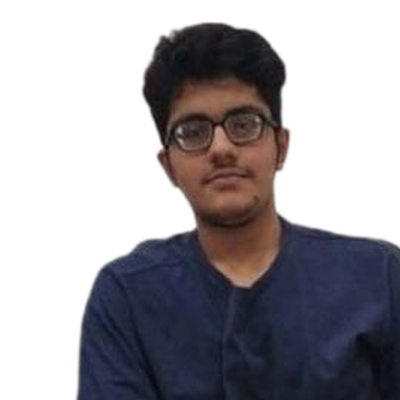
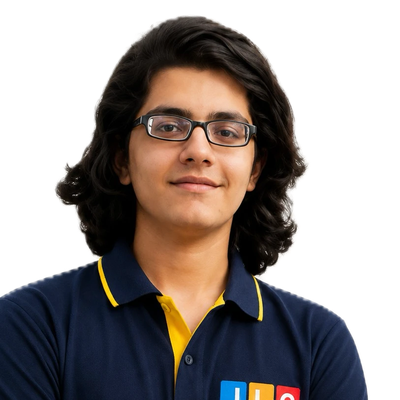
Add IGCSE topper, refresh IB toppers, reorder carousel with About Us first
Adds Harsh Nagda (Seven Isles International School) as a new IGCSE
Achievers section on the results page: five A* grades in Physics 96%,
Geography 94%, Mathematics Extended 94%, Hindi 92% and English 91%.

Replaces the IBDP portraits with the new JLC studio photographs for
Naman Thakkar and Ansh Sachde, and corrects their level from HL to SL
per the new IBDP Stars sheet, which also spells the surname Thakkar
rather than Thakker. The superseded MYP 5 line is dropped so each card
states the school the grade was earned at.

Reorders the home carousel so the About Us slide leads, followed by the
ICSE, IBDP and IGCSE topper slides and then Subjects Offered. Each
topper slide now shows real cut-out portraits: the top three ICSE
scorers, both IBDP achievers and the IGCSE achiever, in place of the
previous flat banner images.

Swaps the Subjects Offered slide to the new IB MYP and IBDP infographic
and brings courses.html in line with it by adding the missing Chemistry
and Biology IBDP cards.

Claude-Session: https://claude.ai/code/session_01SMsAUoWfowQbfSo6xeCuTu

diff --git a/index.html b/index.html
@@ -50,71 +50,7 @@
     <section class="hero-carousel" data-carousel aria-label="Highlights" aria-roledescription="carousel">
       <div class="hero-carousel__track" data-carousel-track>
 
-        <!-- Slide 1: ICSE Results -->
-        <article class="hcslide" style="--accent:var(--blue)" aria-roledescription="slide" aria-label="ICSE Results">
-          <div class="wrap hcslide__inner">
-            <div class="hcslide__text">
-              <span class="hcslide__eyebrow">ICSE Results</span>
-              <h2>Top ICSE Achievers<sup>*</sup></h2>
-              <p>School toppers scoring 95%+ across Maths, Sciences and Humanities, year after year.</p>
-              <div class="cta-row hcslide__cta">
-                <a class="btn btn--light" href="results.html#icse-results">See ICSE Results
-                  <svg viewBox="0 0 24 24" fill="none" stroke="currentColor" stroke-width="2" stroke-linecap="round" stroke-linejoin="round"><path d="M5 12h14M13 6l6 6-6 6"/></svg></a>
-              </div>
-              <p style="font-size:0.76rem;font-style:italic;color:rgba(255,255,255,0.62);margin-top:0.9rem;max-width:46ch;">*Includes results achieved under Prof. Jayesh's previous academic association as a partner.</p>
-            </div>
-            <div class="hcslide__media">
-              <div style="background:#fff;border-radius:var(--r);box-shadow:var(--shadow);height:100%;display:flex;gap:1.2rem;align-items:center;justify-content:center;padding:1.4rem;">
-                <div style="text-align:center;flex:1 1 0;">
-                  <img src="assets/img/topper-khushi-shah.jpg" alt="Khushi Shah portrait" style="width:100%;max-width:150px;aspect-ratio:1/1;object-fit:cover;border-radius:12px;margin-inline:auto;display:block;" />
-                  <div style="font-size:clamp(1.2rem,2.4vw,1.6rem);font-weight:800;color:var(--green);margin-top:0.6rem;">95.6%</div>
-                  <div style="font-weight:700;font-size:0.92rem;color:var(--ink);">Khushi Shah</div>
-                  <div style="font-size:0.76rem;color:var(--ink-faint);">SSRVM</div>
-                </div>
-                <div style="text-align:center;flex:1 1 0;">
-                  <img src="assets/img/topper-riya-gala.jpg" alt="Riya Gala portrait" style="width:100%;max-width:150px;aspect-ratio:1/1;object-fit:cover;border-radius:12px;margin-inline:auto;display:block;" />
-                  <div style="font-size:clamp(1.2rem,2.4vw,1.6rem);font-weight:800;color:var(--purple);margin-top:0.6rem;">95.2%</div>
-                  <div style="font-weight:700;font-size:0.92rem;color:var(--ink);">Riya Gala</div>
-                  <div style="font-size:0.76rem;color:var(--ink-faint);">NES</div>
-                </div>
-              </div>
-            </div>
-          </div>
-        </article>
-
-        <!-- Slide 2: IBDP Results & MYP -->
-        <article class="hcslide" style="--accent:var(--purple)" aria-roledescription="slide" aria-label="IBDP Results and MYP">
-          <div class="wrap hcslide__inner">
-            <div class="hcslide__text">
-              <span class="hcslide__eyebrow">IBDP Results &amp; MYP</span>
-              <h2>IB Diploma &amp; Middle Years Success</h2>
-              <p>Outstanding IBDP Mathematics scores (6/7 in AA-HL &amp; AI-HL) and strong MYP foundations, guided by IB specialists.</p>
-              <div class="cta-row hcslide__cta">
-                <a class="btn btn--light" href="results.html#ibdp-results">See IBDP Results
-                  <svg viewBox="0 0 24 24" fill="none" stroke="currentColor" stroke-width="2" stroke-linecap="round" stroke-linejoin="round"><path d="M5 12h14M13 6l6 6-6 6"/></svg></a>
-              </div>
-            </div>
-            <div class="hcslide__media"><img src="assets/img/results-ibdp.jpg" alt="IBDP Mathematics results, 6/7" style="object-fit:contain;background:#fff;" /></div>
-          </div>
-        </article>
-
-        <!-- Slide 3: IGCSE Results -->
-        <article class="hcslide" style="--accent:var(--orange)" aria-roledescription="slide" aria-label="IGCSE Results">
-          <div class="wrap hcslide__inner">
-            <div class="hcslide__text">
-              <span class="hcslide__eyebrow">IGCSE Results</span>
-              <h2>IGCSE Achievers</h2>
-              <p>Top grades across the global IGCSE curriculum, with analytical thinking that prepares students for the world stage.</p>
-              <div class="cta-row hcslide__cta">
-                <a class="btn btn--light" href="results.html">See IGCSE Results
-                  <svg viewBox="0 0 24 24" fill="none" stroke="currentColor" stroke-width="2" stroke-linecap="round" stroke-linejoin="round"><path d="M5 12h14M13 6l6 6-6 6"/></svg></a>
-              </div>
-            </div>
-            <div class="hcslide__media"><div class="ph ph--fill ph--dark">PLACEHOLDER: IGCSE Results banner image</div></div>
-          </div>
-        </article>
-
-        <!-- Slide 4: About Us -->
+        <!-- Slide 1: About Us -->
         <article class="hcslide" style="--accent:var(--teal)" aria-roledescription="slide" aria-label="About Us">
           <div class="wrap hcslide__inner">
             <div class="hcslide__text">
@@ -130,19 +66,113 @@
           </div>
         </article>
 
+        <!-- Slide 2: ICSE Results -->
+        <article class="hcslide" style="--accent:var(--blue)" aria-roledescription="slide" aria-label="ICSE Results">
+          <div class="wrap hcslide__inner">
+            <div class="hcslide__text">
+              <span class="hcslide__eyebrow">ICSE Results</span>
+              <h2>Top ICSE Achievers<sup>*</sup></h2>
+              <p>School toppers with multiple 100/100 subject scores across Maths, Sciences and Humanities.</p>
+              <div class="cta-row hcslide__cta">
+                <a class="btn btn--light" href="results.html#icse-results">See ICSE Results
+                  <svg viewBox="0 0 24 24" fill="none" stroke="currentColor" stroke-width="2" stroke-linecap="round" stroke-linejoin="round"><path d="M5 12h14M13 6l6 6-6 6"/></svg></a>
+              </div>
+              <p style="font-size:0.76rem;font-style:italic;color:rgba(255,255,255,0.62);margin-top:0.9rem;max-width:46ch;">*Includes results achieved under Prof. Jayesh's previous academic association as a partner.</p>
+            </div>
+            <div class="hcslide__media">
+              <div style="background:#fff;border-radius:var(--r);box-shadow:var(--shadow);height:100%;display:flex;gap:1rem;align-items:center;justify-content:center;padding:1.3rem;">
+                <div style="text-align:center;flex:1 1 0;min-width:0;">
+                  <img src="assets/img/topper-hetvee-shah.png" alt="Hetvee Shah portrait" style="width:100%;max-width:132px;aspect-ratio:1/1;object-fit:cover;border-radius:12px;margin-inline:auto;display:block;background:var(--page-2);" />
+                  <div style="font-size:clamp(1.05rem,2.1vw,1.45rem);font-weight:800;color:var(--blue);margin-top:0.55rem;">99%</div>
+                  <div style="font-weight:700;font-size:0.88rem;color:var(--ink);line-height:1.2;">Hetvee Shah</div>
+                  <div style="font-size:0.74rem;color:var(--ink-faint);">SSRVM</div>
+                </div>
+                <div style="text-align:center;flex:1 1 0;min-width:0;">
+                  <img src="assets/img/topper-yashvi-bhadra.png" alt="Yashvi Bhadra portrait" style="width:100%;max-width:132px;aspect-ratio:1/1;object-fit:cover;border-radius:12px;margin-inline:auto;display:block;background:var(--page-2);" />
+                  <div style="font-size:clamp(1.05rem,2.1vw,1.45rem);font-weight:800;color:var(--orange);margin-top:0.55rem;">98.7%</div>
+                  <div style="font-weight:700;font-size:0.88rem;color:var(--ink);line-height:1.2;">Yashvi Bhadra</div>
+                  <div style="font-size:0.74rem;color:var(--ink-faint);">Pawar Public School</div>
+                </div>
+                <div style="text-align:center;flex:1 1 0;min-width:0;">
+                  <img src="assets/img/topper-aditya-punekar.png" alt="Aditya Punekar portrait" style="width:100%;max-width:132px;aspect-ratio:1/1;object-fit:cover;border-radius:12px;margin-inline:auto;display:block;background:var(--page-2);" />
+                  <div style="font-size:clamp(1.05rem,2.1vw,1.45rem);font-weight:800;color:var(--green);margin-top:0.55rem;">97.72%</div>
+                  <div style="font-weight:700;font-size:0.88rem;color:var(--ink);line-height:1.2;">Aditya Punekar</div>
+                  <div style="font-size:0.74rem;color:var(--ink-faint);">Friends' Academy</div>
+                </div>
+              </div>
+            </div>
+          </div>
+        </article>
+
+        <!-- Slide 3: IBDP Results -->
+        <article class="hcslide" style="--accent:var(--purple)" aria-roledescription="slide" aria-label="IBDP Results">
+          <div class="wrap hcslide__inner">
+            <div class="hcslide__text">
+              <span class="hcslide__eyebrow">IBDP Results</span>
+              <h2>IB Diploma Achievers</h2>
+              <p>6/7 in IB Mathematics at Kodaikanal International School, guided by our IB subject specialists.</p>
+              <div class="cta-row hcslide__cta">
+                <a class="btn btn--light" href="results.html#ibdp-results">See IBDP Results
+                  <svg viewBox="0 0 24 24" fill="none" stroke="currentColor" stroke-width="2" stroke-linecap="round" stroke-linejoin="round"><path d="M5 12h14M13 6l6 6-6 6"/></svg></a>
+              </div>
+            </div>
+            <div class="hcslide__media">
+              <div style="background:#fff;border-radius:var(--r);box-shadow:var(--shadow);height:100%;display:flex;gap:1rem;align-items:center;justify-content:center;padding:1.3rem;">
+                <div style="text-align:center;flex:1 1 0;min-width:0;">
+                  <img src="assets/img/topper-naman-thakkar.png" alt="Naman Thakkar portrait" style="width:100%;max-width:132px;aspect-ratio:1/1;object-fit:cover;border-radius:12px;margin-inline:auto;display:block;background:var(--page-2);" />
+                  <div style="font-size:clamp(1.05rem,2.1vw,1.45rem);font-weight:800;color:var(--blue);margin-top:0.55rem;">6/7</div>
+                  <div style="font-weight:700;font-size:0.88rem;color:var(--ink);line-height:1.2;">Naman Thakkar</div>
+                  <div style="font-size:0.74rem;color:var(--ink-faint);">Mathematics AA – SL</div>
+                </div>
+                <div style="text-align:center;flex:1 1 0;min-width:0;">
+                  <img src="assets/img/topper-ansh-sachde.png" alt="Ansh Sachde portrait" style="width:100%;max-width:132px;aspect-ratio:1/1;object-fit:cover;border-radius:12px;margin-inline:auto;display:block;background:var(--page-2);" />
+                  <div style="font-size:clamp(1.05rem,2.1vw,1.45rem);font-weight:800;color:var(--orange);margin-top:0.55rem;">6/7</div>
+                  <div style="font-weight:700;font-size:0.88rem;color:var(--ink);line-height:1.2;">Ansh Sachde</div>
+                  <div style="font-size:0.74rem;color:var(--ink-faint);">Mathematics AI – SL</div>
+                </div>
+              </div>
+            </div>
+          </div>
+        </article>
+
+        <!-- Slide 4: IGCSE Results -->
+        <article class="hcslide" style="--accent:var(--orange)" aria-roledescription="slide" aria-label="IGCSE Results">
+          <div class="wrap hcslide__inner">
+            <div class="hcslide__text">
+              <span class="hcslide__eyebrow">IGCSE Results</span>
+              <h2>IGCSE Achievers</h2>
+              <p>Straight A* grades across Physics, Geography, Mathematics, Hindi and English.</p>
+              <div class="cta-row hcslide__cta">
+                <a class="btn btn--light" href="results.html#igcse-results">See IGCSE Results
+                  <svg viewBox="0 0 24 24" fill="none" stroke="currentColor" stroke-width="2" stroke-linecap="round" stroke-linejoin="round"><path d="M5 12h14M13 6l6 6-6 6"/></svg></a>
+              </div>
+            </div>
+            <div class="hcslide__media">
+              <div style="background:#fff;border-radius:var(--r);box-shadow:var(--shadow);height:100%;display:flex;gap:1rem;align-items:center;justify-content:center;padding:1.3rem;">
+                <div style="text-align:center;flex:1 1 0;min-width:0;">
+                  <img src="assets/img/topper-harsh-nagda.png" alt="Harsh Nagda portrait" style="width:100%;max-width:132px;aspect-ratio:1/1;object-fit:cover;border-radius:12px;margin-inline:auto;display:block;background:var(--page-2);" />
+                  <div style="font-size:clamp(1.05rem,2.1vw,1.45rem);font-weight:800;color:var(--orange);margin-top:0.55rem;">5 A*</div>
+                  <div style="font-weight:700;font-size:0.88rem;color:var(--ink);line-height:1.2;">Harsh Nagda</div>
+                  <div style="font-size:0.74rem;color:var(--ink-faint);">Seven Isles International School</div>
+                </div>
+              </div>
+            </div>
+          </div>
+        </article>
+
         <!-- Slide 5: Subjects Offered -->
         <article class="hcslide" style="--accent:var(--green)" aria-roledescription="slide" aria-label="Subjects Offered">
           <div class="wrap hcslide__inner">
             <div class="hcslide__text">
               <span class="hcslide__eyebrow">Subjects Offered</span>
-              <h2>IBDP &amp; MYP Subjects, Taught by Specialists</h2>
-              <p>Math AA/AI (HL &amp; SL), Physics, Economics, English, Business Management and more: full IBDP and MYP coverage.</p>
+              <h2>IB MYP &amp; IBDP Subjects, Taught by Specialists</h2>
+              <p>Math AA/AI (HL &amp; SL), Physics, Chemistry, Biology, Business Management, Economics and English: full IBDP and MYP coverage.</p>
               <div class="cta-row hcslide__cta">
                 <a class="btn btn--light" href="courses.html#ib">View Subjects
                   <svg viewBox="0 0 24 24" fill="none" stroke="currentColor" stroke-width="2" stroke-linecap="round" stroke-linejoin="round"><path d="M5 12h14M13 6l6 6-6 6"/></svg></a>
               </div>
             </div>
-            <div class="hcslide__media"><img src="assets/img/subjects-ibdp.jpg" alt="IBDP subjects offered" style="object-fit:contain;background:#fff;" /></div>
+            <div class="hcslide__media"><img src="assets/img/subjects-ib.jpg" alt="IB MYP and IBDP subjects offered" style="object-fit:contain;background:#fff;" /></div>
           </div>
         </article>
 
@@ -216,9 +246,9 @@
               <div class="achiever__score">6/7</div>
               <div class="achiever__badge" style="background:var(--blue)">IB</div>
             </div>
-            <img class="achiever__photo" style="width:100%;height:auto;aspect-ratio:1/1;border-radius:12px;" src="assets/img/topper-naman-thakker.png" alt="Naman Thakker portrait" />
-            <p class="achiever__name">Naman Thakker</p>
-            <span class="achiever__chip">IBDP Level · Mathematics AA – HL</span>
+            <img class="achiever__photo" style="width:100%;height:auto;aspect-ratio:1/1;border-radius:12px;" src="assets/img/topper-naman-thakkar.png" alt="Naman Thakkar portrait" />
+            <p class="achiever__name">Naman Thakkar</p>
+            <span class="achiever__chip">IBDP Level · Mathematics AA – SL</span>
           </div>
 
           <div class="achiever">
@@ -228,7 +258,7 @@
             </div>
             <img class="achiever__photo" style="width:100%;height:auto;aspect-ratio:1/1;border-radius:12px;" src="assets/img/topper-ansh-sachde.png" alt="Ansh Sachde portrait" />
             <p class="achiever__name">Ansh Sachde</p>
-            <span class="achiever__chip" style="background:#fff0e2;color:var(--orange)">IBDP Level · Mathematics AI – HL</span>
+            <span class="achiever__chip" style="background:#fff0e2;color:var(--orange)">IBDP Level · Mathematics AI – SL</span>
           </div>
         </div>
 

diff --git a/results.html b/results.html
@@ -329,11 +329,10 @@
               <div class="achiever__score">6/7</div>
               <div class="achiever__badge" style="background:var(--blue)">IB</div>
             </div>
-            <img class="achiever__photo" style="width:100%;height:auto;aspect-ratio:1/1;border-radius:12px;" src="assets/img/topper-naman-thakker.png" alt="Naman Thakker portrait" />
-            <p class="achiever__name">Naman Thakker</p>
-            <span class="achiever__chip">IBDP Level · Mathematics AA – HL</span>
+            <img class="achiever__photo" style="width:100%;height:auto;aspect-ratio:1/1;border-radius:12px;" src="assets/img/topper-naman-thakkar.png" alt="Naman Thakkar portrait" />
+            <p class="achiever__name">Naman Thakkar</p>
+            <span class="achiever__chip">IBDP Level · Mathematics AA – SL</span>
             <ul class="achiever__marks">
-              <li><span>MYP 5</span><b>NES International School</b></li>
               <li><span>IBDP</span><b>Kodaikanal International School</b></li>
             </ul>
           </div>
@@ -345,10 +344,40 @@
             </div>
             <img class="achiever__photo" style="width:100%;height:auto;aspect-ratio:1/1;border-radius:12px;" src="assets/img/topper-ansh-sachde.png" alt="Ansh Sachde portrait" />
             <p class="achiever__name">Ansh Sachde</p>
-            <span class="achiever__chip" style="background:#fff0e2;color:var(--orange)">IBDP Level · Mathematics AI – HL</span>
+            <span class="achiever__chip" style="background:#fff0e2;color:var(--orange)">IBDP Level · Mathematics AI – SL</span>
             <ul class="achiever__marks">
-              <li><span>MYP 5</span><b>NES International School</b></li>
               <li><span>IBDP</span><b>Kodaikanal International School</b></li>
+            </ul>
+          </div>
+        </div>
+      </div>
+    </section>
+
+    <!-- ============================ IGCSE RESULTS ============================ -->
+    <section class="section" id="igcse-results" style="scroll-margin-top:70px;">
+      <div class="wrap">
+        <div class="section-head section-head--center reveal">
+          <p class="eyebrow eyebrow--center eyebrow--dash eyebrow--orange">IGCSE Results</p>
+          <h2>IGCSE Achievers</h2>
+          <p>Straight A* grades across the Cambridge IGCSE curriculum.</p>
+        </div>
+
+        <div class="achievers reveal" style="grid-template-columns:1fr;max-width:380px;margin-inline:auto;">
+          <div class="achiever">
+            <div class="achiever__top">
+              <div class="achiever__score" style="color:var(--orange)">5 A*</div>
+              <div class="achiever__badge" style="background:var(--orange)">A*</div>
+            </div>
+            <img class="achiever__photo" style="width:100%;height:auto;aspect-ratio:1/1;border-radius:12px;" src="assets/img/topper-harsh-nagda.png" alt="Harsh Nagda portrait" />
+            <p class="achiever__name">Harsh Nagda</p>
+            <p class="achiever__school">Seven Isles International School</p>
+            <span class="achiever__chip" style="background:#fff0e2;color:var(--orange)">IGCSE</span>
+            <ul class="achiever__marks">
+              <li><span>Physics</span><b>A* (96%)</b></li>
+              <li><span>Geography</span><b>A* (94%)</b></li>
+              <li><span>Mathematics (Extended)</span><b>A* (94%)</b></li>
+              <li><span>Hindi</span><b>A* (92%)</b></li>
+              <li><span>English</span><b>A* (91%)</b></li>
             </ul>
           </div>
         </div>

diff --git a/courses.html b/courses.html
@@ -178,9 +178,11 @@
           <div class="subj-cards">
             <div class="subj-card"><b>Mathematics</b><ul><li>Math AA – HL</li><li>Math AA – SL</li><li>Math AI – HL</li><li>Math AI – SL</li></ul></div>
             <div class="subj-card"><b>Physics</b><ul><li>Physics – HL</li><li>Physics – SL</li></ul></div>
+            <div class="subj-card"><b>Chemistry</b><ul><li>Chemistry – HL</li><li>Chemistry – SL</li></ul></div>
+            <div class="subj-card"><b>Biology</b><ul><li>Biology – HL</li><li>Biology – SL</li></ul></div>
+            <div class="subj-card"><b>Business Management</b><ul><li>Business Management – HL</li><li>Business Management – SL</li></ul></div>
             <div class="subj-card"><b>Economics</b><ul><li>Economics – HL</li><li>Economics – SL</li></ul></div>
             <div class="subj-card"><b>English</b><ul><li>English – HL</li><li>English – SL</li></ul></div>
-            <div class="subj-card"><b>Business Management</b><ul><li>BM – HL</li><li>BM – SL</li></ul></div>
           </div>
         </div>
 
@@ -191,7 +193,7 @@
             <span>Middle Years Programme</span>
           </div>
           <div class="subj-cards">
-            <div class="subj-card"><b>Math</b></div>
+            <div class="subj-card"><b>Mathematics</b></div>
             <div class="subj-card"><b>English</b></div>
             <div class="subj-card"><b>Science</b><ul><li>Physics, Chemistry, Biology or Integrated Sciences</li></ul></div>
             <div class="subj-card"><b>Integrated Humanities</b><ul><li>Individuals &amp; Societies</li></ul></div>
